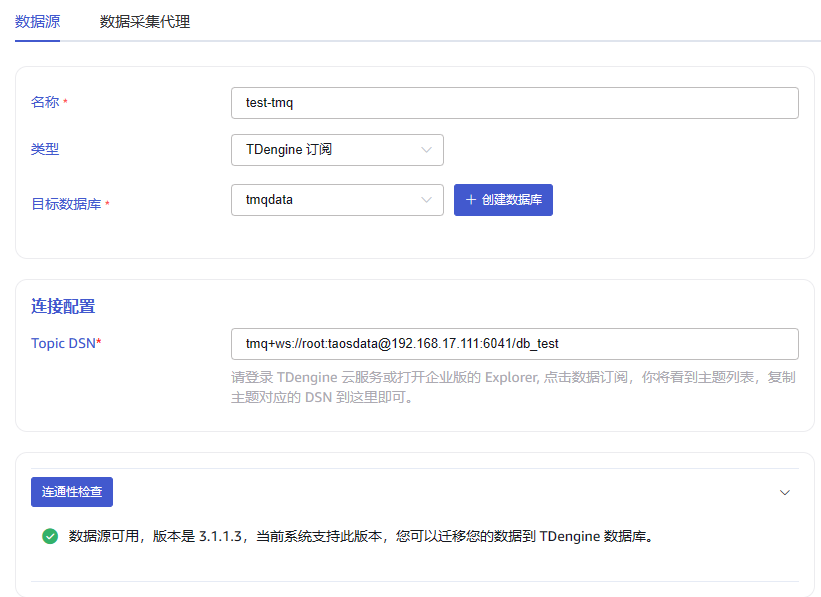
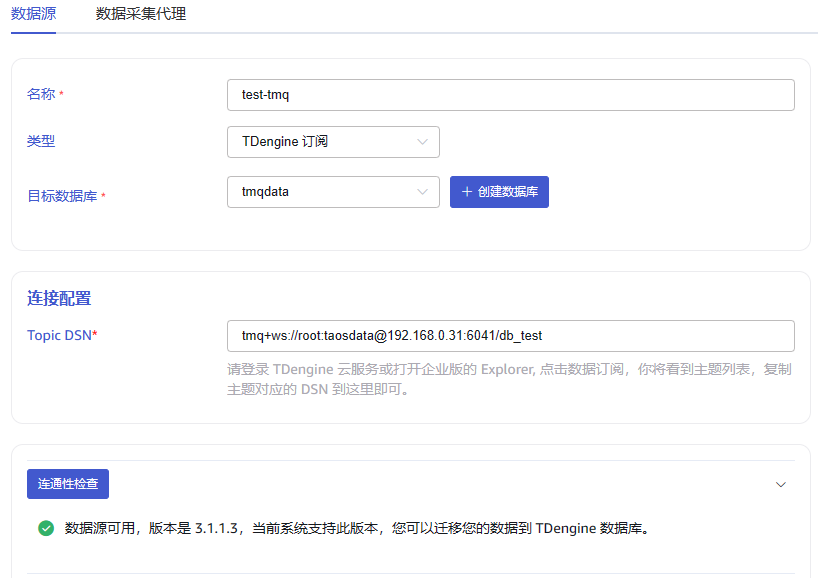
docs: tmq and migrate for taosx en version

diff --git a/docs/zh/30-enterprise/08-datain/06-tmq.md b/docs/zh/30-enterprise/08-datain/06-tmq.md
@@ -7,12 +7,25 @@ sidebar_label: "TDengine 订阅"
 
 ## 准备工作
 
-在源 TDengine 创建 Topic。例如创建名字为 db_test 的 Topic：
-```
-create topic db_test as database test;
-```
+在源集群创建订阅所需的 Topic， 可以订阅整个库、超级表 或子表。本示例中我们演示订阅一个名为 test 的数据库。
 
-## 步骤
+### 第一步：进入“数据订阅”页面
+打开源集群的 Explorer 界面， 点击左侧“数据订阅”菜单，然后点击“添加新主题”。
+
+![准备一](./tmq-pre1.png)
+
+### 第二步: 添加新主题
+输入主题名称，选择要订阅的数据库。
+
+![准备二](./tmq-pre2.png)
+
+### 第三步：复制主题的 DSN
+
+点击“创建”按钮，回到主题列表复制主题的 **DSN** 备用。
+
+![准备三](./tmq-pre3.png)
+
+## 创建订阅任务
 
 ### 第一步： 进入“新增数据源”页面
 1. 点击左侧“数据写入”菜单
@@ -23,29 +36,31 @@ create topic db_test as database test;
 1. 输入任务名称
 2. 选择任务类型“TDengine 订阅”
 3. 选择目标数据库
-4. 以 DSN 形式输入源端数据库连接信息和要订阅的 Topic。例如：tmq+ws://root:taosdata@localhost:6041/topic
+4. 粘贴准备步骤复制的 DSN 到 **Topic DSN** 一栏。例如：tmq+ws://root:taosdata@localhost:6041/topic
 5. 完成以上步骤点击“连通性检查”按钮，测试与源端的连通性
 ![步骤二](./tmq-step2.png)
 
-### 第三步： 订阅设置
+### 第三步：填写订阅设置并提交任务
+
 1. 选择订阅初始位置。可配置从最早数据（earliest）或最晚（latest）数据开始订阅，默认为 earliest
 2. 设置超时时间。支持单位 ms（毫秒），s（秒），m（分钟），h（小时），d（天），M（月），y（年）
-3. 点击“新增按钮”
+3. 点击“新增按钮”， 提交任务
 ![步骤三](./tmq-step3.png)
 
-### 第四步：监控任务运行情况
 
-提交任务后，回到数据源页面可以查看任务状态。
-![](./tmq-step4.png)
+## 监控任务运行情况
+
+提交任务后，回到数据源页面可以查看任务状态。任务先会被加入执行队列，稍后就开始运行。
+![步骤四](./tmq-step4.png)
 
 点击 “查看”按钮，可以监控任务的动态统计信息。
-![](./tmq-step5.png)
+![步骤五](./tmq-step5.png)
 
 也可以点击左侧折叠按钮，展开任务的活动信息。如果任务运行异常，此处可以看到详细的说明。
-![](./tmq-step6.png)
+![步骤六](./tmq-step6.png)
 
 ## 高级用法
 
 1. FROM DSN 支持多个 Topic，多个 Topic 的名字用逗号分割。例如： `tmq+ws://root:taosdata@localhost:6041/topic1,topic2,topic3`
-2. 在 FROM DSN 中，可以用数据库名称、超级表名称或子表名称代替 Topic 名称。例如：`tmq+ws://root:taosdata@localhost:6041/db1,db2,db3`,此时不必要提前创建 Topic，taosX 将自动识别到使用的是数据库名称，并自动在源集群创建订阅数据库的 Topic。
+2. 在 FROM DSN 中，也可以用数据库名称、超级表名称或子表名称代替 Topic 名称。例如：`tmq+ws://root:taosdata@localhost:6041/db1,db2,db3`,此时不必要提前创建 Topic，taosX 将自动识别到使用的是数据库名称，并自动在源集群创建订阅数据库的 Topic。
 3. FROM DSN 支持 group.id 参数，以显式指定订阅用的 group ID。不指定情况下将使用随机生成的 group ID。

diff --git a/docs/en/30-enterprise/08-datain/06-tmq.md b/docs/en/30-enterprise/08-datain/06-tmq.md
@@ -1,0 +1,65 @@
+---
+Title: "TDEngine Subscription"
+sidebar_label: "TDengine subscription"
+---
+
+This article describes how to use Explorer to subscribe data from another cluster to this cluster.
+
+## Preparation work
+
+Create the Topic required for subscription in the source cluster, which can subscribe to the entire library, super table, or sub-table. In this example, we demonstrate subscribing to a database named test.
+
+### Step 1: Go to the "Data Subscription" page
+Open the Explorer interface of the open source cluster, click the "Data Subscription" menu on the left, and then click "Add New Topic".
+
+![Prepare one](./tmq-pre1.png)
+
+### Step 2: Add a new topic
+Enter the topic name and select the database to subscribe to.
+
+![Preparation 2](./tmq-pre2.png)
+
+### Step 3: Copy the DSN of the topic.
+
+Click the "Create" button to return to the topic list and copy the ** DSN ** of the topic as a backup.
+
+![Prepare three](./tmq-pre3.png)
+
+## Create a subscription task
+
+### Step 1: Go to the "New Data Source" page
+1. Click the "Data Write" menu on the left
+2. Click "Add Data Source"
+![Step 1](./tmq-step1.png)
+
+### Step 2: Enter data source information
+1. Enter a task name
+2. Select task type "TDengine subscription"
+3. Select target database
+4. Paste the DSN copied by the preparation steps into the field of **Topic DSN**. For example: `tmq+ws://root:taosdata@localhost:6041/topic`
+5. Complete the above steps and click the "Connectivity Check" button to test the connectivity with the source end.
+![Step 2](./tmq-step2.png)
+
+### Step 3: Fill in subscription settings and submit tasks
+
+1. Select the initial subscription location. You can configure to subscribe from the earliest or latest data, with the default being earliest.
+2. Set timeout time. Support units ms (milliseconds), s (seconds), m (minutes), h (hours), d (days), M (months), y (years).
+3. Click the "Add button" to submit a task
+![Step 3](./tmq-step3.png)
+
+## Monitor task running status
+
+After submitting the task, you can return to the data source page to view the task status. The task will be added to the execution queue first and will start running later.
+![Step 4](./tmq-step4.png)
+
+Click the "View" button to monitor the dynamic statistics of the task.
+![Step 5](./tmq-step5.png)
+
+You can also click the Collapse button on the left to expand the activity information of the task. If the task runs abnormally, you can see the detailed description here.
+![Step 6](./tmq-step6.png)
+
+## Advanced Usage
+
+1. Topic DSN supports multiple Topics, and the names of multiple Topics are separated by commas. For example: 'tmq + ws://root: taosdata@localhost: 6041/topic1, topic2, topic3'
+2. Topic DSN, you can  also use database name, super table name or sub-table name instead of Topic name. For example: `tmq + ws://root:taosdata@localhost:6041/db1,db2,db3`. At this time, it is not necessary to create Topic in advance. TaosX will automatically recognize that the database name is used and automatically create a Topic that subscribes to the database in the source cluster.
+3. FROM DSN supports group.id parameters to explicitly specify the group ID for the subscription. If not specified, the randomly generated group ID will be used.

diff --git a/docs/en/30-enterprise/08-datain/05-migrate.md b/docs/en/30-enterprise/08-datain/05-migrate.md
@@ -1,0 +1,34 @@
+---
+Title: "TDEngine 2.x"
+sidebar_label: "TDengine 2.x"
+---
+
+This section describes how to create a data migration task through the Explorer interface to migrate data from the old version of TDengine (2.x) to the current cluster.
+
+## Function Overview
+
+taosX queries the source cluster data through SQL and writes the query results to the target database. In specific implementation, taosX uses data from a subtable for a time period as the basic unit of the query, and writes the data to be migrated into the target database in batches.
+
+taosX supports three migration modes:
+1. **history** mode. Refers to migrating data within the specified time range. If no time range is specified, all data up to the creation of the task will be migrated. After migration, the task will stop.
+2. **realtime** mode. Synchronize the data after the task creation time. If the task is not manually stopped, the task will continue to run.
+3. **both** mode. First execute the history mode, then execute the realtiem mode.
+
+In each migration mode, you can specify whether to migrate the table structure. If "always" is selected, the table structure will be synchronized to the target database before migrating the data. If there are many subtables, this process may be longer. If you are sure that the target database already has the same table interface as the source database, it is recommended to choose "none" to save time.
+
+The task will save progress information to the hard disk during operation, so if the task is paused and restarted, or if the task automatically resumes from an exception, the task will not start from scratch.
+
+For more options, it is recommended to read the instructions for each form field on the Create Task page in detail.
+
+## Specific steps
+
+First, click the "Data Writing" menu on the left, and then click the new "Add Data Source" button on the right.
+![step 1](./migrate-step1.png)
+
+Then enter the task name, such as "migrate-test", and finally select the type "TDengine 2.x". At this point, the form switches to a form dedicated to migrating data from TDengine 2.x, containing a large number of options, each with detailed explanations, as shown in the figure below.
+
+![step 2](./migrate-step2.png)
+![step 3](./migrate-step3.png)
+![step 4](./migrate-step4.png)
+
+After clicking the "Add" button to submit the task, return to the "Data Source" task list page to monitor the operation of the task.

diff --git a/docs/zh/30-enterprise/08-datain/05-migrate.md b/docs/zh/30-enterprise/08-datain/05-migrate.md
@@ -10,9 +10,9 @@ sidebar_label: "TDengine 2.x"
 taosX 通过 SQL 查询源集群数据，并把查询结果写入到目标数据库。具体实现上， taosX 以一个子表的一个时间段的数据作为查询的基本单元，将要迁移的数据分批写入目标数据库。
 
 taosX 支持三种迁移模式：
-1. history 模式。指迁移指定时间范围内的数据，若不指定时间范围，则迁移截至创建任务前的所有数据。迁移完则任务停止。
-2. realtime 模式。同步从任务创建时间起之后的数据，若不手动停止任务则任务会持续运行。
-3. both 模式。先执行 history 模式，在执行 realtiem 模式。
+1. **history** 模式。指迁移指定时间范围内的数据，若不指定时间范围，则迁移截至创建任务前的所有数据。迁移完则任务停止。
+2. **realtime** 模式。同步从任务创建时间起之后的数据，若不手动停止任务则任务会持续运行。
+3. **both** 模式。先执行 history 模式，在执行 realtiem 模式。
 
 每种迁移模式下，都可以指定是否迁移表结构。如果选择了 “always”, 则会先同步表的结构到目标数据库再迁移数据。如果子表数量比较多这个过程可能会比较长。如果确定目标数据库已经有了和源数据库相同的表接口，建议选择 “none” 以节省时间。
 
